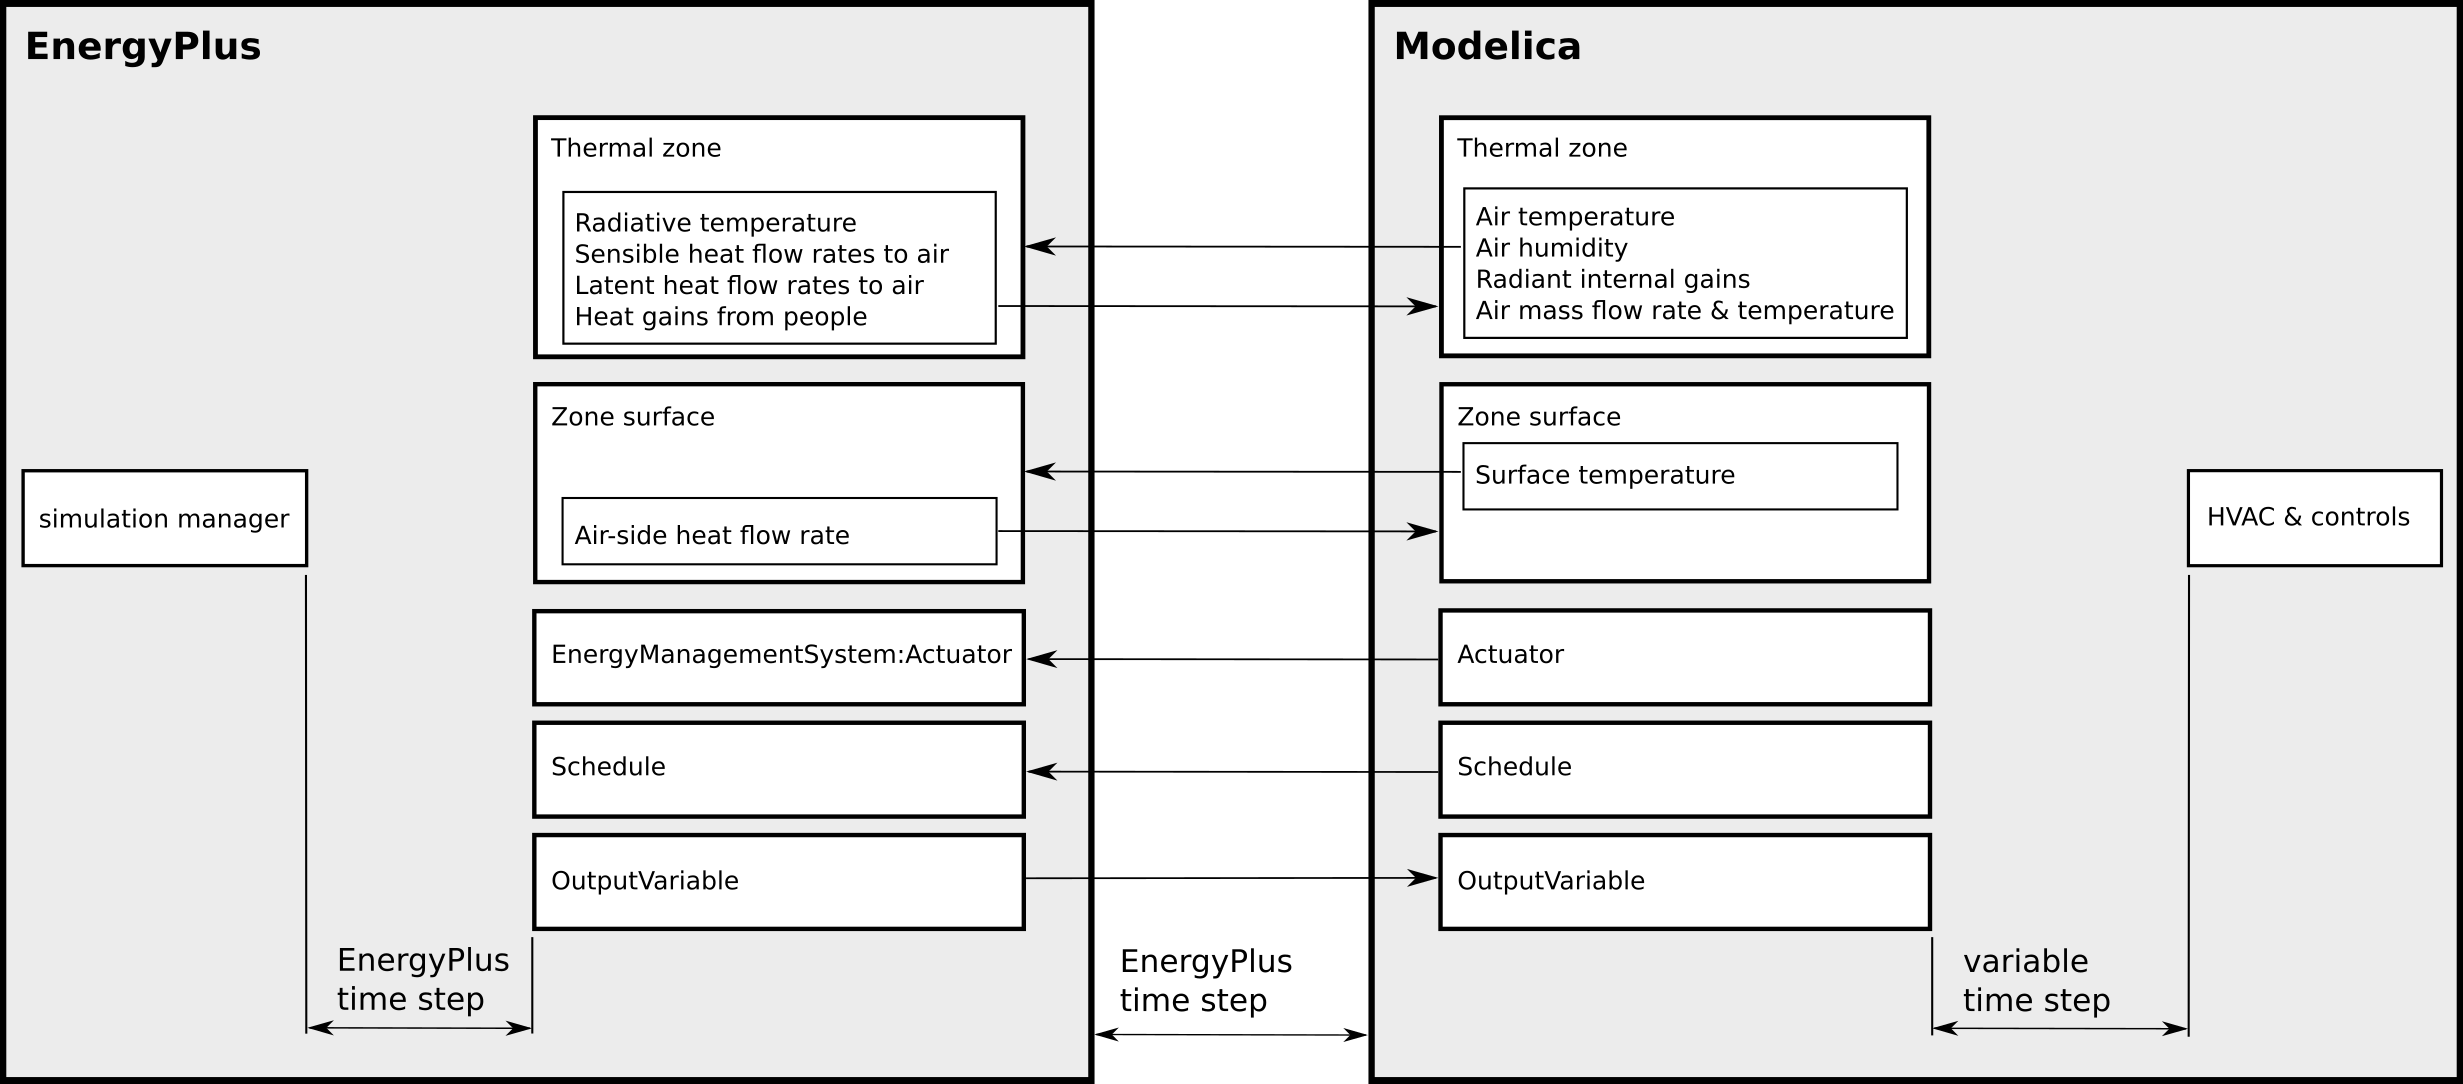
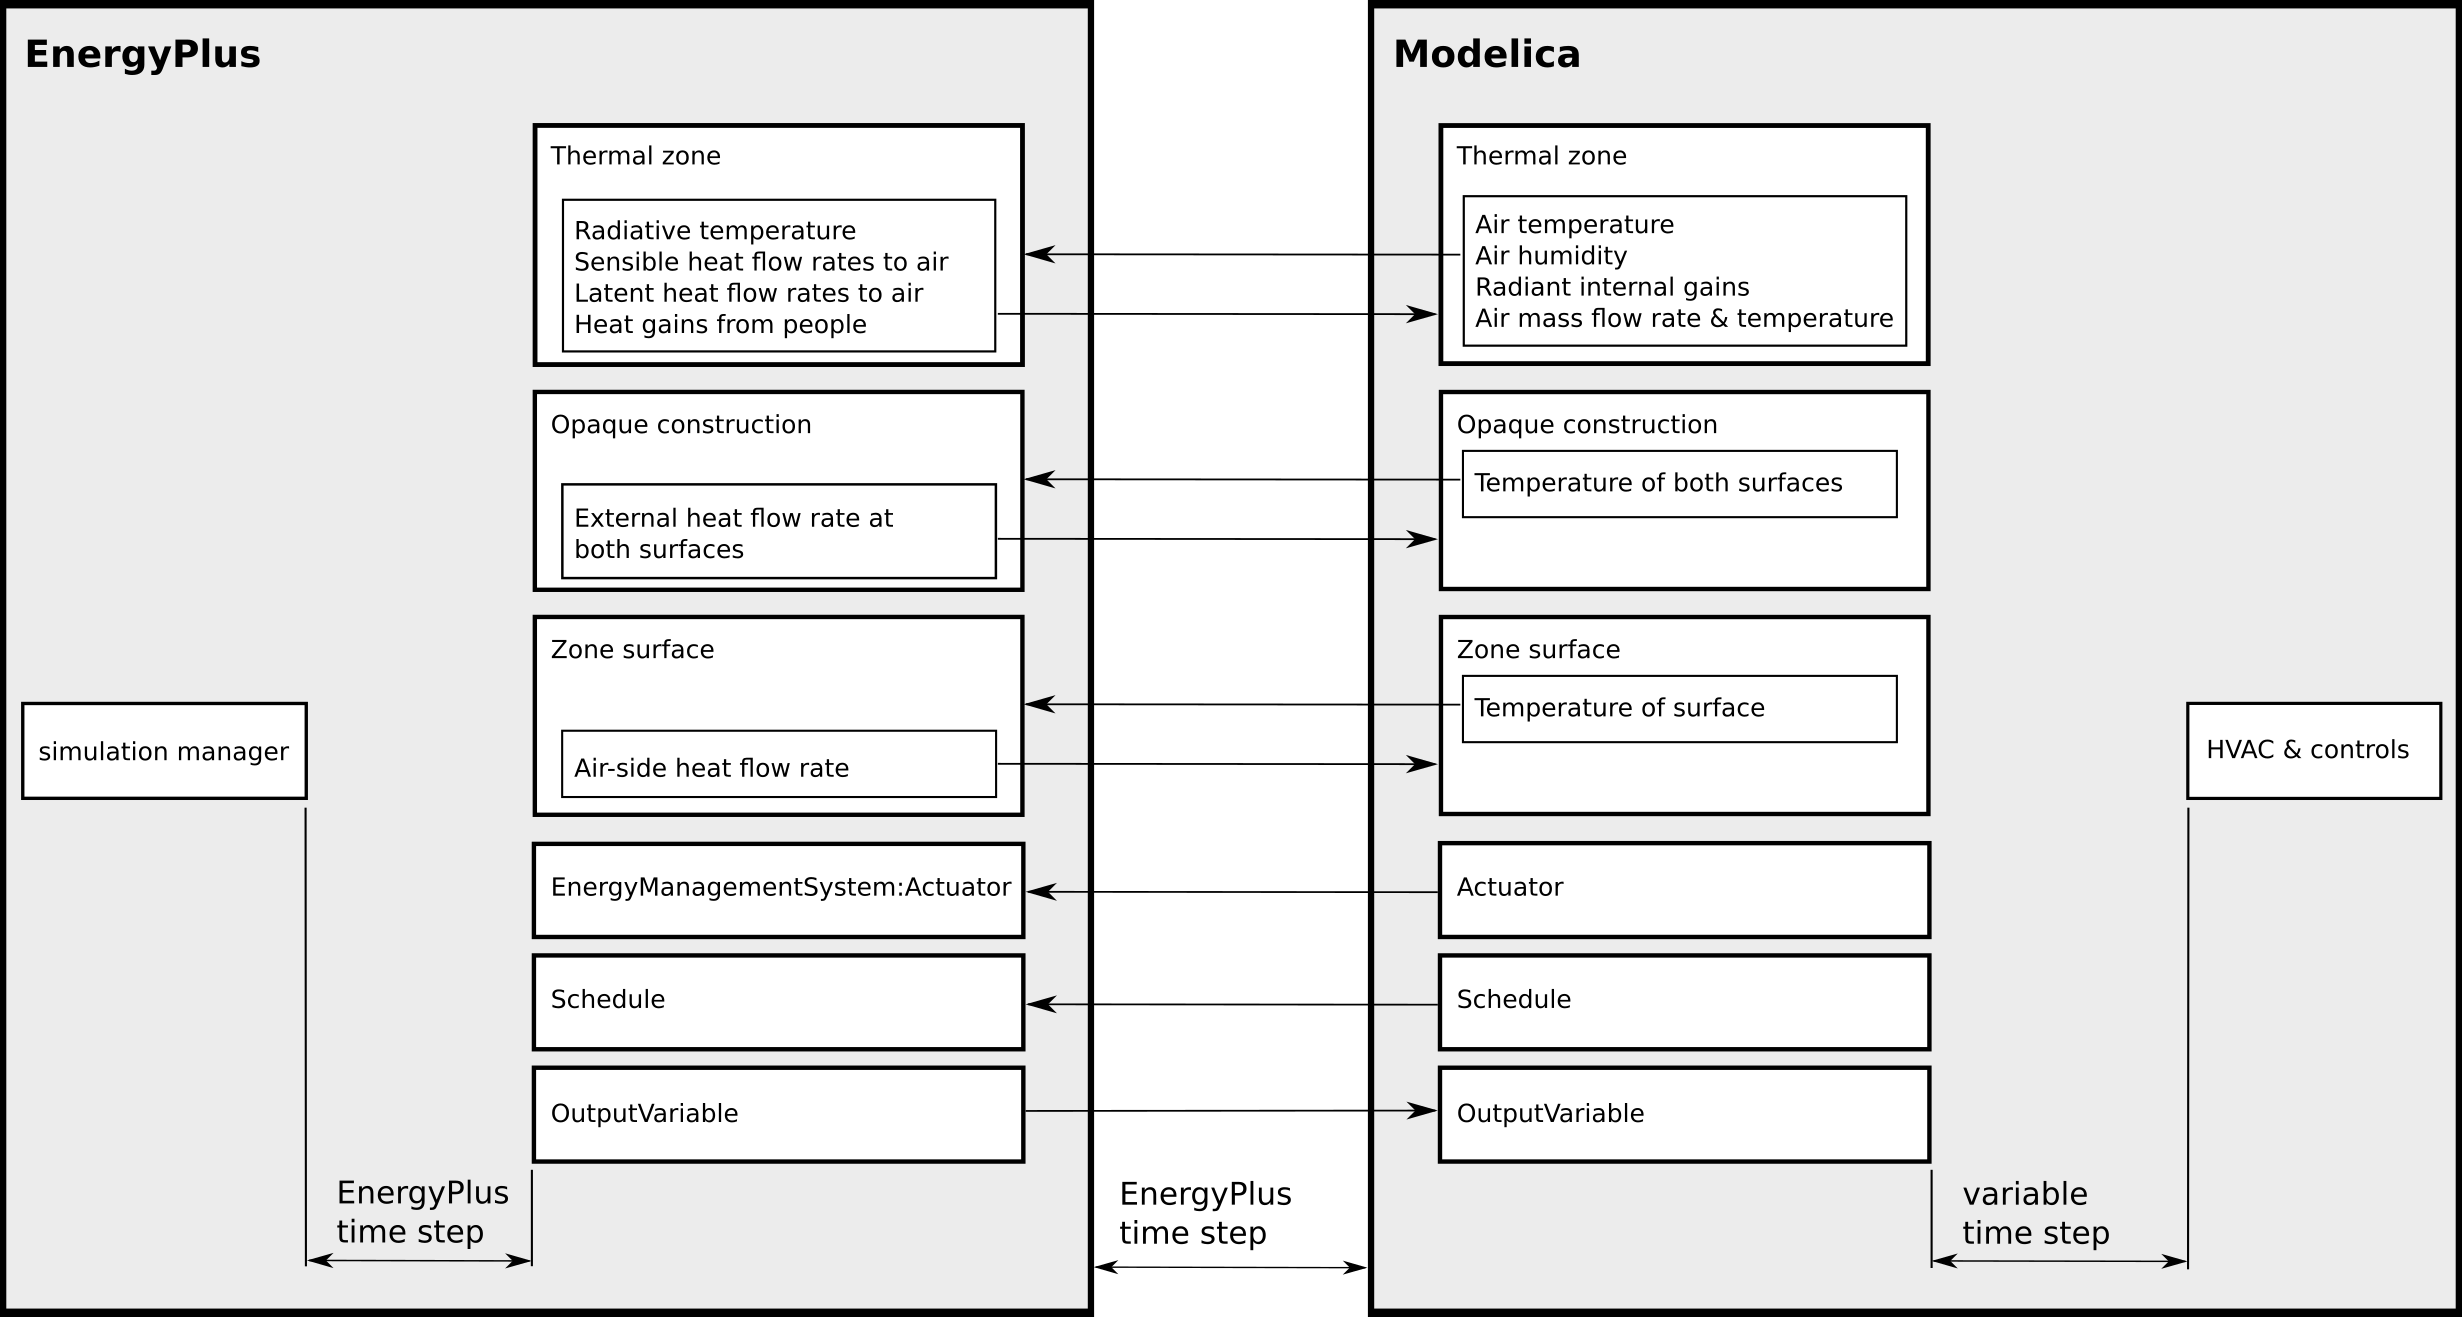
Added specification for #60

diff --git a/doc-design/source/softwareArchitecture.rst b/doc-design/source/softwareArchitecture.rst
@@ -343,8 +343,9 @@ Coupling of a zone surface
 ^^^^^^^^^^^^^^^^^^^^^^^^^^
 
 The following interface models the heat transfer of a surface with the EnergyPlus thermal zone.
-This allows for example coupling of a radiant heating or cooling system that is modeled in Modelica
-to the EnergyPlus thermal zone model. EnergyPlus
+This allows for example coupling of a radiant heating in the 1st floor that is modeled in Modelica
+to the EnergyPlus thermal zone model for heat exchange with the zone,
+while simulating the ground coupling of the slab in Modelica. EnergyPlus
 models the heat transfer between the surface and the thermal zone. Therefore, EnergyPlus will
 model the convective heat transfer, the short-wave radiation absorbed by the surface and the
 long-wave radiation absorbed minus emitted by the surface.
@@ -404,7 +405,8 @@ which could be another thermal zone, the outside, or the ground coupling,
 depending on its specification of the `Outside Boundary Condition` in EnergyPlus.
 Therefore, EnergyPlus will
 model all heat that enters the surface from its boundary condition.
-For a thermal zone or the outside, this is the convective heat transfer, the short-wave radiation absorbed by the surface and the
+For a thermal zone or the outside, this is the convective heat transfer,
+the short-wave radiation absorbed by the surface and the
 long-wave radiation absorbed minus emitted by the surface.
 For ground coupled surfaces, this is the heat transfer from the ground.
 
